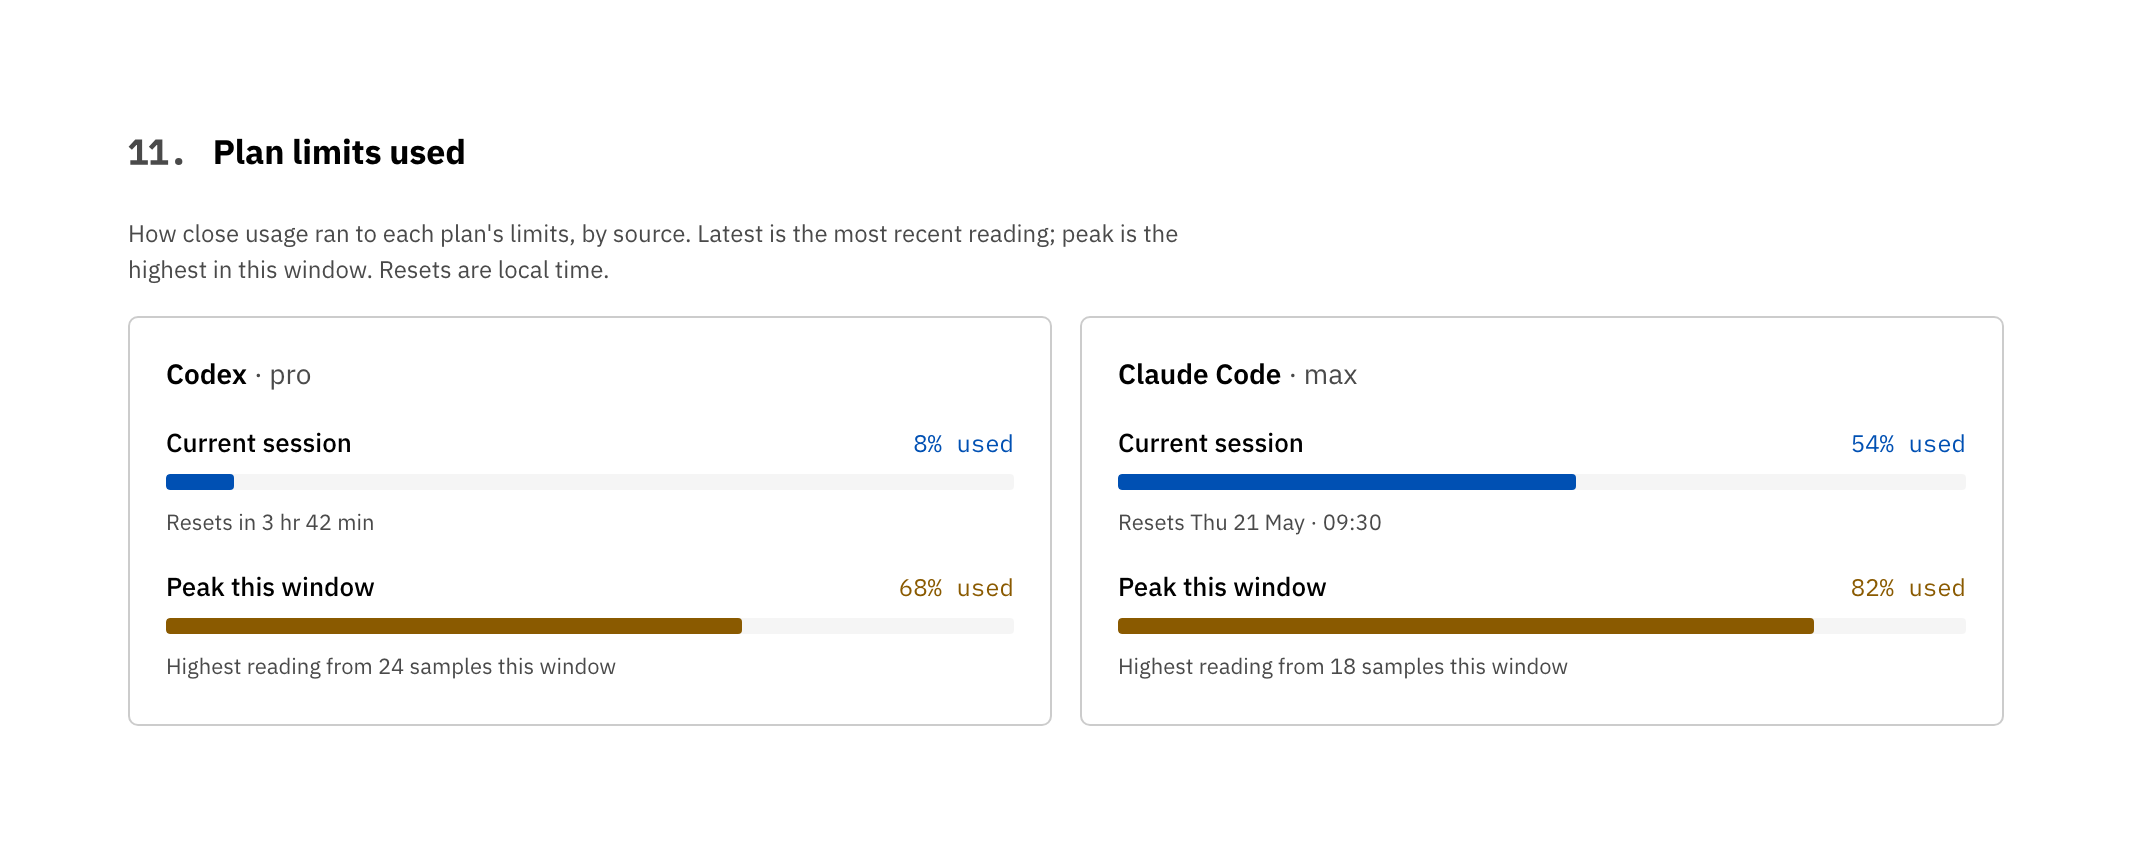
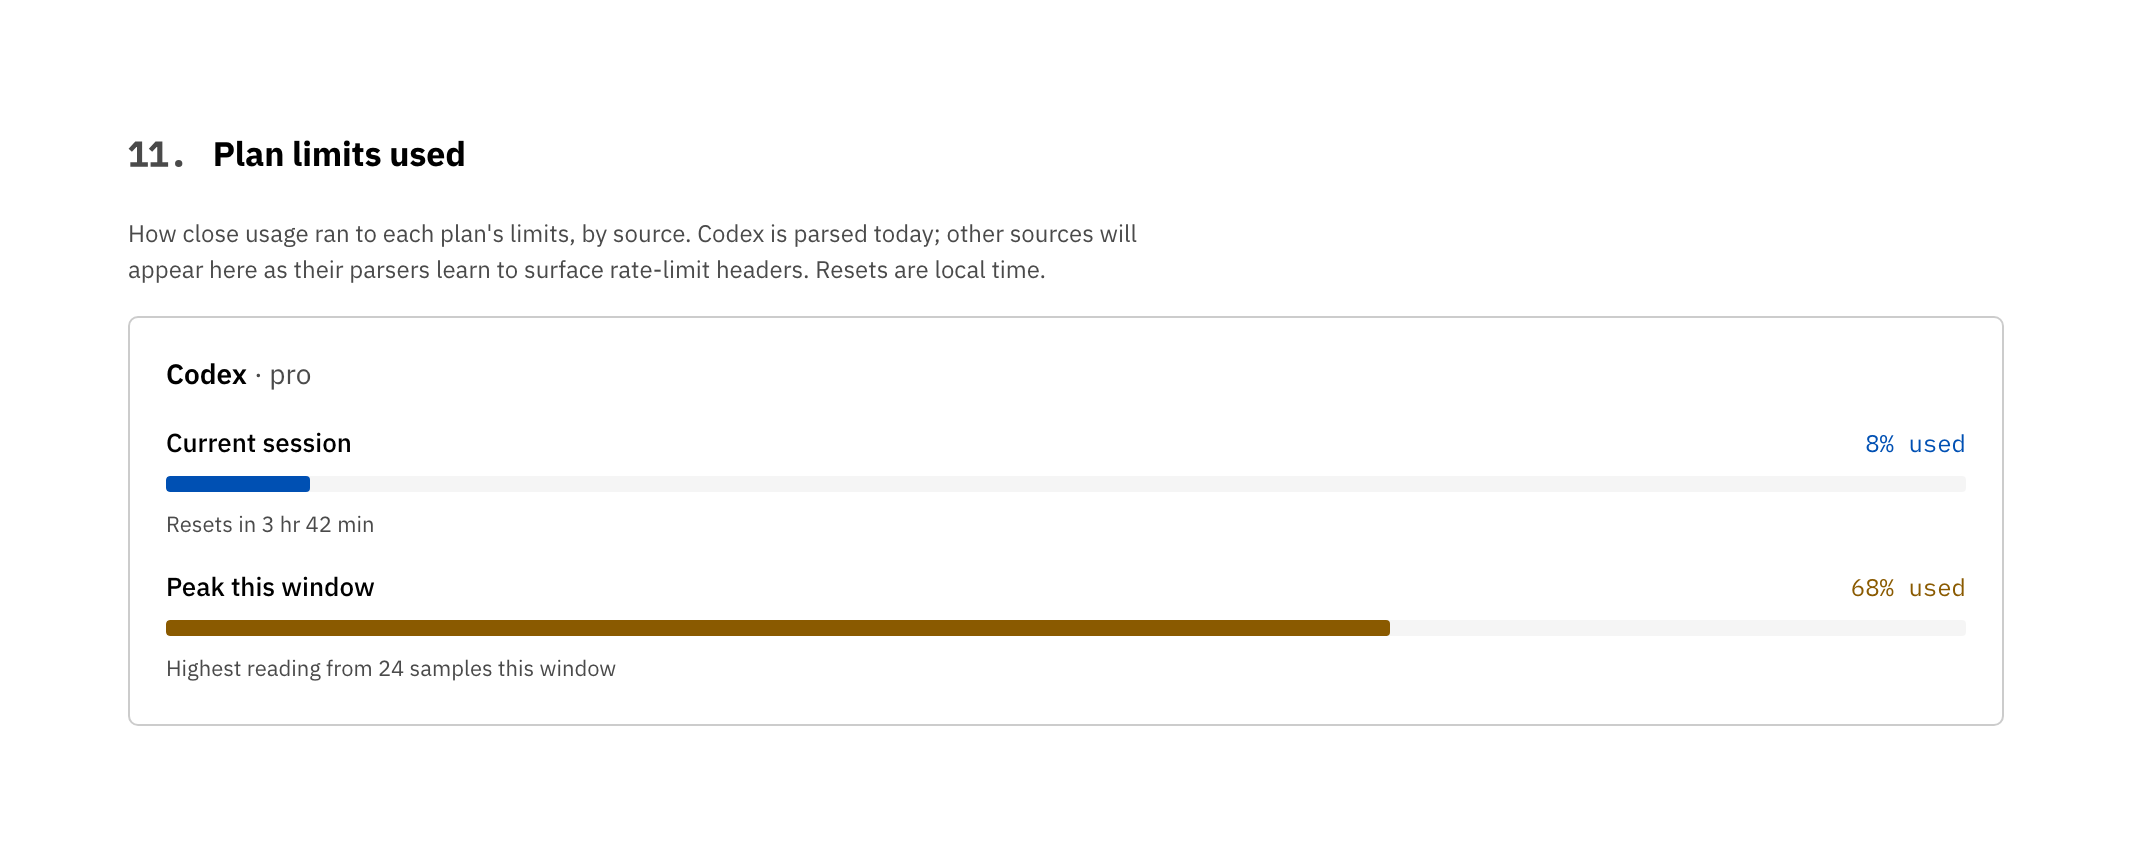
0.0.76: plan limits — honest about what's actually parsed (#35)
The 0.0.75 demo showed a Claude Code rate-limit panel, but the Claude
Code parser explicitly returns `rate_limit_samples=[]` — so on real user
data that panel would not appear. That was a misleading aspirational
display. Dropped the synthetic Claude Code entry; the demo now shows
what real parsing produces today (Codex only), and the section hint
says so directly: "Codex is parsed today; other sources will appear
here as their parsers learn to surface rate-limit headers."

Hardened `_build_rate_limit_pressures_by_source`: drops records with
an empty vendor (no source attribution → no panel), drops records with
no rate-limit signal at all, and uses a stable tiebreaker on
equal-timestamp records so the "latest" reading is deterministic.

New accuracy tests verify per-source records route to their own panels
(no cross-vendor contamination of peak/latest), that empty-vendor and
no-signal records are dropped, and that the Codex → Claude Code → others
ordering holds.

README copy updated: Claude Code / Cursor / Aider panels are described
as "appear automatically once their parsers learn to surface rate-limit
info", not as if they already ship.

diff --git a/tests/test_handoff_adapter.py b/tests/test_handoff_adapter.py
@@ -13,6 +13,7 @@ from caliper.dashboards.adapter import (
     _build_model_rows,
     _build_project_rows,
     _build_rate_limit_pressure,
+    _build_rate_limit_pressures_by_source,
     build_handoff_dashboard,
     tool_category,
 )
@@ -379,6 +380,92 @@ def test_build_rate_limit_pressure_scores_peak_and_reached(tmp_path) -> None:
     assert pressure.peak_primary_pct == 0.97
     assert pressure.reached_count == 1
     assert pressure.latest_limit_name == "5-hour usage"
+
+
+def test_per_source_pressures_route_records_to_their_vendors(tmp_path) -> None:
+    """Each panel must reflect ONLY that vendor's samples — no cross-contamination."""
+    result = LoadResult(
+        events=[],
+        duplicates=0,
+        tier_sources={},
+        plan_types=set(),
+        rate_limit_samples=[
+            # Codex: peak should be 80%.
+            RateLimitSample(
+                timestamp=dt.datetime(2026, 5, 12, 10, tzinfo=dt.UTC),
+                path=tmp_path / "codex-a.jsonl",
+                session_id="c1",
+                plan_type="pro",
+                limit_name="5-hour usage",
+                primary_used_percent=40.0,
+                vendor=VENDOR_OPENAI_CODEX,
+            ),
+            RateLimitSample(
+                timestamp=dt.datetime(2026, 5, 12, 11, tzinfo=dt.UTC),
+                path=tmp_path / "codex-b.jsonl",
+                session_id="c1",
+                plan_type="pro",
+                limit_name="5-hour usage",
+                primary_used_percent=80.0,
+                vendor=VENDOR_OPENAI_CODEX,
+            ),
+            # Claude: peak should be 99% and the panel must NOT see 80%.
+            RateLimitSample(
+                timestamp=dt.datetime(2026, 5, 12, 12, tzinfo=dt.UTC),
+                path=tmp_path / "claude.jsonl",
+                session_id="cc1",
+                plan_type="max",
+                limit_name="5-hour usage",
+                primary_used_percent=99.0,
+                rate_limit_reached_type="primary",
+                vendor=VENDOR_CLAUDE_CODE,
+            ),
+        ],
+        warnings=[],
+    )
+    pressures = _build_rate_limit_pressures_by_source(result)
+    # Ordering: Codex first, Claude Code second.
+    assert [p.source for p in pressures] == [VENDOR_OPENAI_CODEX, VENDOR_CLAUDE_CODE]
+    codex, claude = pressures
+    assert codex.source_label == "Codex"
+    assert codex.peak_primary_pct == 0.80  # NOT 0.99
+    assert codex.latest_plan_type == "pro"
+    assert codex.tone == "warn"  # 0.80 ≥ 0.75 threshold
+    assert codex.reached_count == 0
+    assert claude.source_label == "Claude Code"
+    assert claude.peak_primary_pct == 0.99
+    assert claude.latest_plan_type == "max"
+    assert claude.tone == "critical"  # reached_count drives critical
+    assert claude.reached_count == 1
+
+
+def test_per_source_skips_empty_vendor_and_signal_free_records(tmp_path) -> None:
+    """Records with no vendor or no rate-limit signal must not produce panels."""
+    result = LoadResult(
+        events=[],
+        duplicates=0,
+        tier_sources={},
+        plan_types=set(),
+        rate_limit_samples=[
+            # No vendor → dropped, even though it has a signal.
+            RateLimitSample(
+                timestamp=dt.datetime(2026, 5, 12, 10, tzinfo=dt.UTC),
+                path=tmp_path / "orphan.jsonl",
+                session_id="o1",
+                primary_used_percent=50.0,
+                vendor="",
+            ),
+            # No signal → dropped, even though vendor is set.
+            RateLimitSample(
+                timestamp=dt.datetime(2026, 5, 12, 11, tzinfo=dt.UTC),
+                path=tmp_path / "silent.jsonl",
+                session_id="s1",
+                vendor=VENDOR_OPENAI_CODEX,
+            ),
+        ],
+        warnings=[],
+    )
+    assert _build_rate_limit_pressures_by_source(result) == []
 
 
 # ----- _build_evidence -----

diff --git a/src/caliper/dashboards/adapter.py b/src/caliper/dashboards/adapter.py
@@ -1995,24 +1995,34 @@ def _build_rate_limit_pressures_by_source(result: LoadResult) -> list[RateLimitP
     Ordering: Codex first, then Claude Code, then any other vendors
     alphabetically — stable across renders and matches how the rest of the
     dashboard lists sources.
+
+    Accuracy rules enforced here:
+
+    * Records with an empty/missing ``vendor`` are dropped — we will not
+      render a panel with no source attribution.
+    * A record contributes only when at least one of primary/secondary
+      percent or a ``rate_limit_reached_type`` is set; pure noise is dropped.
+    * A source that ends up with zero contributing values yields no panel.
     """
     by_source: dict[str, list] = {}
+
+    def _has_signal(item: object) -> bool:
+        return (
+            getattr(item, "primary_used_percent", None) is not None
+            or getattr(item, "secondary_used_percent", None) is not None
+            or bool(getattr(item, "rate_limit_reached_type", ""))
+        )
+
     for sample in result.rate_limit_samples:
-        if (
-            sample.primary_used_percent is None
-            and sample.secondary_used_percent is None
-            and not sample.rate_limit_reached_type
-        ):
+        vendor = (sample.vendor or "").strip()
+        if not vendor or not _has_signal(sample):
             continue
-        by_source.setdefault(sample.vendor or "", []).append(sample)
+        by_source.setdefault(vendor, []).append(sample)
     for event in result.events:
-        if (
-            event.primary_used_percent is None
-            and event.secondary_used_percent is None
-            and not event.rate_limit_reached_type
-        ):
+        vendor = (getattr(event, "vendor", "") or "").strip()
+        if not vendor or not _has_signal(event):
             continue
-        by_source.setdefault(getattr(event, "vendor", "") or "", []).append(event)
+        by_source.setdefault(vendor, []).append(event)
     if not by_source:
         return []
     # Stable ordering: Codex, Claude Code, then alphabetical for the rest.
@@ -2021,7 +2031,9 @@ def _build_rate_limit_pressures_by_source(result: LoadResult) -> list[RateLimitP
     out: list[RateLimitPressure] = []
     for source in ordered_sources:
         records = by_source[source]
-        latest = max(records, key=lambda item: item.timestamp)
+        # Stable tiebreaker on equal timestamps: keep the last-seen record so
+        # later log lines win — matches how a tail-followed file reads.
+        latest = max(records, key=lambda item: (item.timestamp, id(item)))
         primary_values = [_percent_fraction(item.primary_used_percent) for item in records]
         secondary_values = [_percent_fraction(item.secondary_used_percent) for item in records]
         primary_values = [v for v in primary_values if v is not None]

diff --git a/src/caliper/dashboards/sample_data.py b/src/caliper/dashboards/sample_data.py
@@ -466,6 +466,15 @@ def sample_dashboard(banner: Banner | None = None, show_paths: bool = False) -> 
             reached_count=0,
             tone="warn",
         ),
+        # Per-source rate-limit panels reflect what real parsing actually
+        # produces. As of 0.0.76 ONLY the Codex parser populates
+        # `rate_limit_samples` (the Claude Code, Cursor, and Aider parsers
+        # currently return an empty list). Do NOT add a synthetic Claude Code
+        # entry here just to make the demo look prettier — the Claude Code
+        # parser doesn't extract rate-limit headers yet, and a fake demo
+        # entry would mislead users into expecting a panel they won't see on
+        # their own logs. When `vendors/claude_code.py` learns to surface
+        # rate-limit data, the Claude Code panel will appear automatically.
         rate_limit_pressures=[
             RateLimitPressure(
                 sample_count=24,
@@ -483,22 +492,6 @@ def sample_dashboard(banner: Banner | None = None, show_paths: bool = False) -> 
                 tone="neutral",
                 source="openai-codex",
                 source_label="Codex",
-            ),
-            RateLimitPressure(
-                sample_count=18,
-                peak_primary_pct=0.82,
-                peak_secondary_pct=0.61,
-                latest_primary_pct=0.54,
-                latest_secondary_pct=0.18,
-                latest_limit_name="weekly usage",
-                latest_plan_type="max",
-                # 16:30 UTC on Thursday 21 May = 09:30 Pacific. Matches the
-                # "Resets Thu 9:30 AM" pattern from the target weekly-limits UI.
-                latest_resets_at="2026-05-21T16:30Z",
-                reached_count=0,
-                tone="warn",
-                source="claude-code",
-                source_label="Claude Code",
             ),
         ],
         quality_score=QualityScore(

diff --git a/src/caliper/dashboards/html.py b/src/caliper/dashboards/html.py
@@ -1731,8 +1731,9 @@ _SECTION_HINTS: dict[str, str] = {
         "Detail for auditing, not a daily read."
     ),
     "rate-limits": (
-        "How close usage ran to each plan's limits, by source. Latest is the most "
-        "recent reading; peak is the highest in this window. Resets are local time."
+        "How close usage ran to each plan's limits, by source. Codex is parsed "
+        "today; other sources will appear here as their parsers learn to surface "
+        "rate-limit headers. Resets are local time."
     ),
     "insights": "Patterns worth a glance when no stronger finding is present.",
     "evidence": (

diff --git a/CHANGELOG.md b/CHANGELOG.md
@@ -2,6 +2,31 @@
 
 All notable changes to Caliper. Newest on top.
 
+## 0.0.76 - 2026-05-28
+
+Plan limits: honest about what's actually parsed.
+
+- **Dropped the synthetic Claude Code rate-limit entry from the demo.** It
+  was misleading: the Claude Code parser explicitly returns
+  `rate_limit_samples=[]`, so on real user data the Claude Code panel would
+  not appear. The demo now shows only what real parsing produces today
+  (Codex), and the section hint says so directly: "Codex is parsed today;
+  other sources will appear here as their parsers learn to surface
+  rate-limit headers."
+- **Hardened the per-source builder for accuracy.**
+  `_build_rate_limit_pressures_by_source` now drops records with an empty
+  vendor (no source attribution → no panel) and records with no
+  rate-limit signal at all. Stable tiebreaker on equal-timestamp records
+  so the "latest" reading is deterministic.
+- **README copy aligned with reality.** Claude Code / Cursor / Aider
+  panels are explicitly described as "appear automatically once their
+  parsers learn to surface rate-limit info", not pretending they ship
+  today.
+- **New accuracy tests:** per-source records route to their own panels
+  (no cross-vendor contamination of peak / latest), empty-vendor and
+  no-signal records are dropped, and the Codex → Claude Code → others
+  ordering holds.
+
 ## 0.0.75 - 2026-05-28
 
 Same content as the failed-to-publish 0.0.74, with the release smoke

diff --git a/README.md b/README.md
@@ -138,10 +138,11 @@ looking at the cause, not just the spike.
 
 ![Plan limits used: per-source Codex and Claude Code panels with Current session and Peak this window meters, each with a human-readable reset time](https://raw.githubusercontent.com/rajdeepmondaldotcom/caliper/main/docs/screenshots/ratelimits.png)
 
-Plan limits used shows how close each source ran to its plan limits — one
-panel per provider with the current session and the peak this window, with
-human-readable reset times ("Resets in 3 hr 42 min", "Resets Thu 21 May ·
-09:30") instead of raw Unix epochs.
+Plan limits used shows how close each source ran to its plan limits. Caliper
+parses rate-limit headers from **Codex** today; **Claude Code, Cursor, and
+Aider** panels appear automatically once their parsers learn to surface
+rate-limit info. Each panel reads with human reset times — "Resets in 3 hr
+42 min", "Resets Thu 21 May · 09:30" — instead of raw Unix epochs.
 
 ![Attribution panels for agents, skills, tier sources, and the long-context boundary](https://raw.githubusercontent.com/rajdeepmondaldotcom/caliper/main/docs/screenshots/attribution.png)
 

diff --git a/SECURITY.md b/SECURITY.md
@@ -13,8 +13,8 @@ fixes.
 
 | Version | Supported |
 | ------- | --------- |
-| `0.0.75` | yes |
-| `< 0.0.75` | no |
+| `0.0.76` | yes |
+| `< 0.0.76` | no |
 
 The `1.0` release will introduce a longer support window and a published
 deprecation policy. Until then, please upgrade promptly.